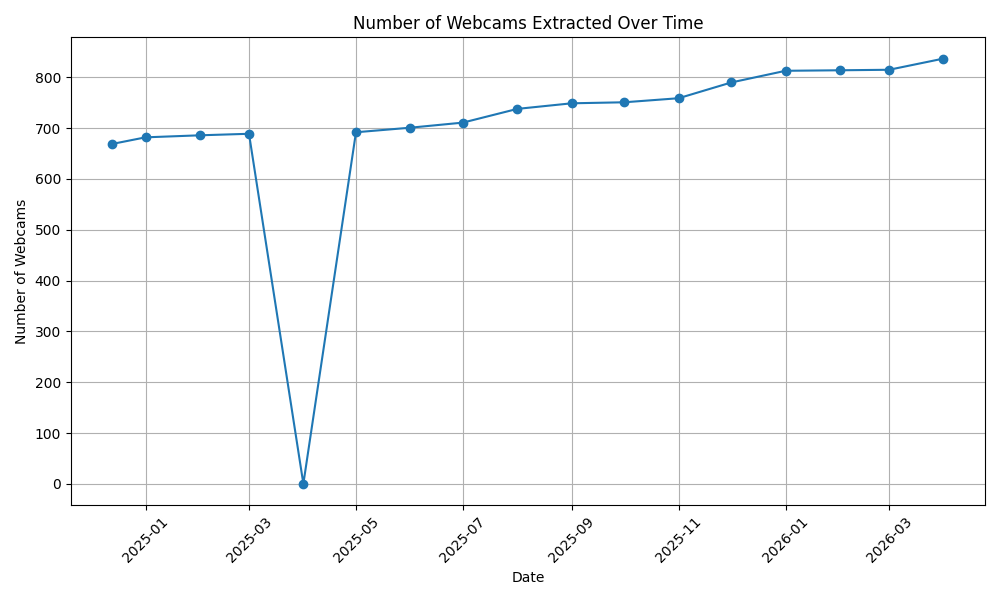
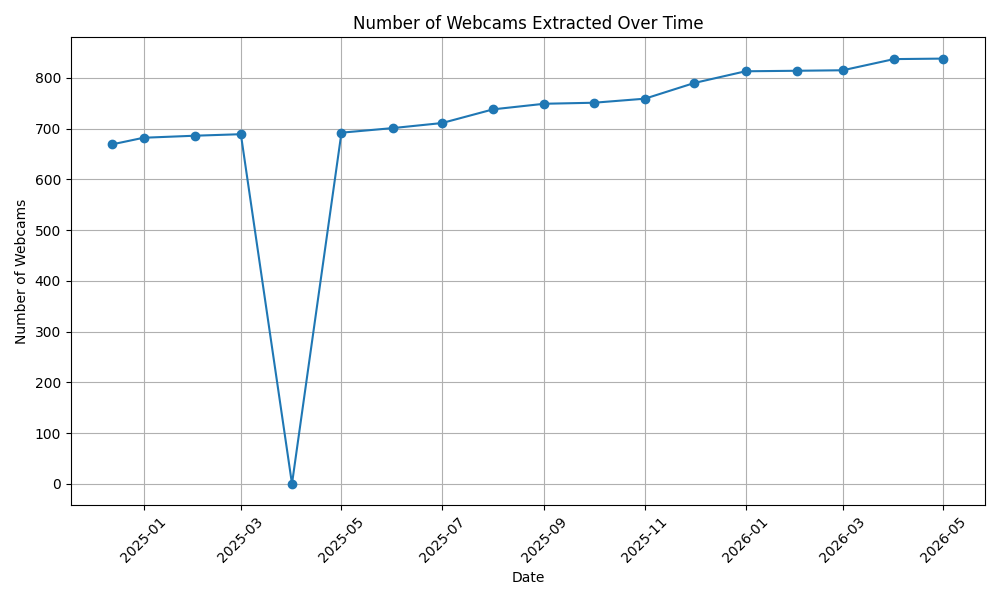
Skaping 2026-05-01

diff --git a/Skaping/README.md b/Skaping/README.md
@@ -1,10 +1,10 @@
 # Skaping 🎥
 
-**Data last updated on: '2026-04-01''2026-03-01''2026-02-01''2026-01-01''2025-12-01''2025-11-01''2025-10-01''2025-09-01''2025-08-01''2025-07-01''2025-06-01'**
+**Data last updated on: '2026-05-01''2026-04-01''2026-03-01''2026-02-01''2026-01-01''2025-12-01''2025-11-01''2025-10-01''2025-09-01''2025-08-01''2025-07-01''2025-06-01'**
 
 Data extracted from: [Skaping](https://www.skaping.com)
 
-![History Diagram](webcam_count_history.png?img_date='2026-04-01''2026-03-01''2026-02-01''2026-01-01''2025-12-01''2025-11-01''2025-10-01''2025-09-01''2025-08-01''2025-07-01''2025-06-01')
+![History Diagram](webcam_count_history.png?img_date='2026-05-01''2026-04-01''2026-03-01''2026-02-01''2026-01-01''2025-12-01''2025-11-01''2025-10-01''2025-09-01''2025-08-01''2025-07-01''2025-06-01')
 
 ## 📅 Use the Latest Data Scraped Each Month
 
